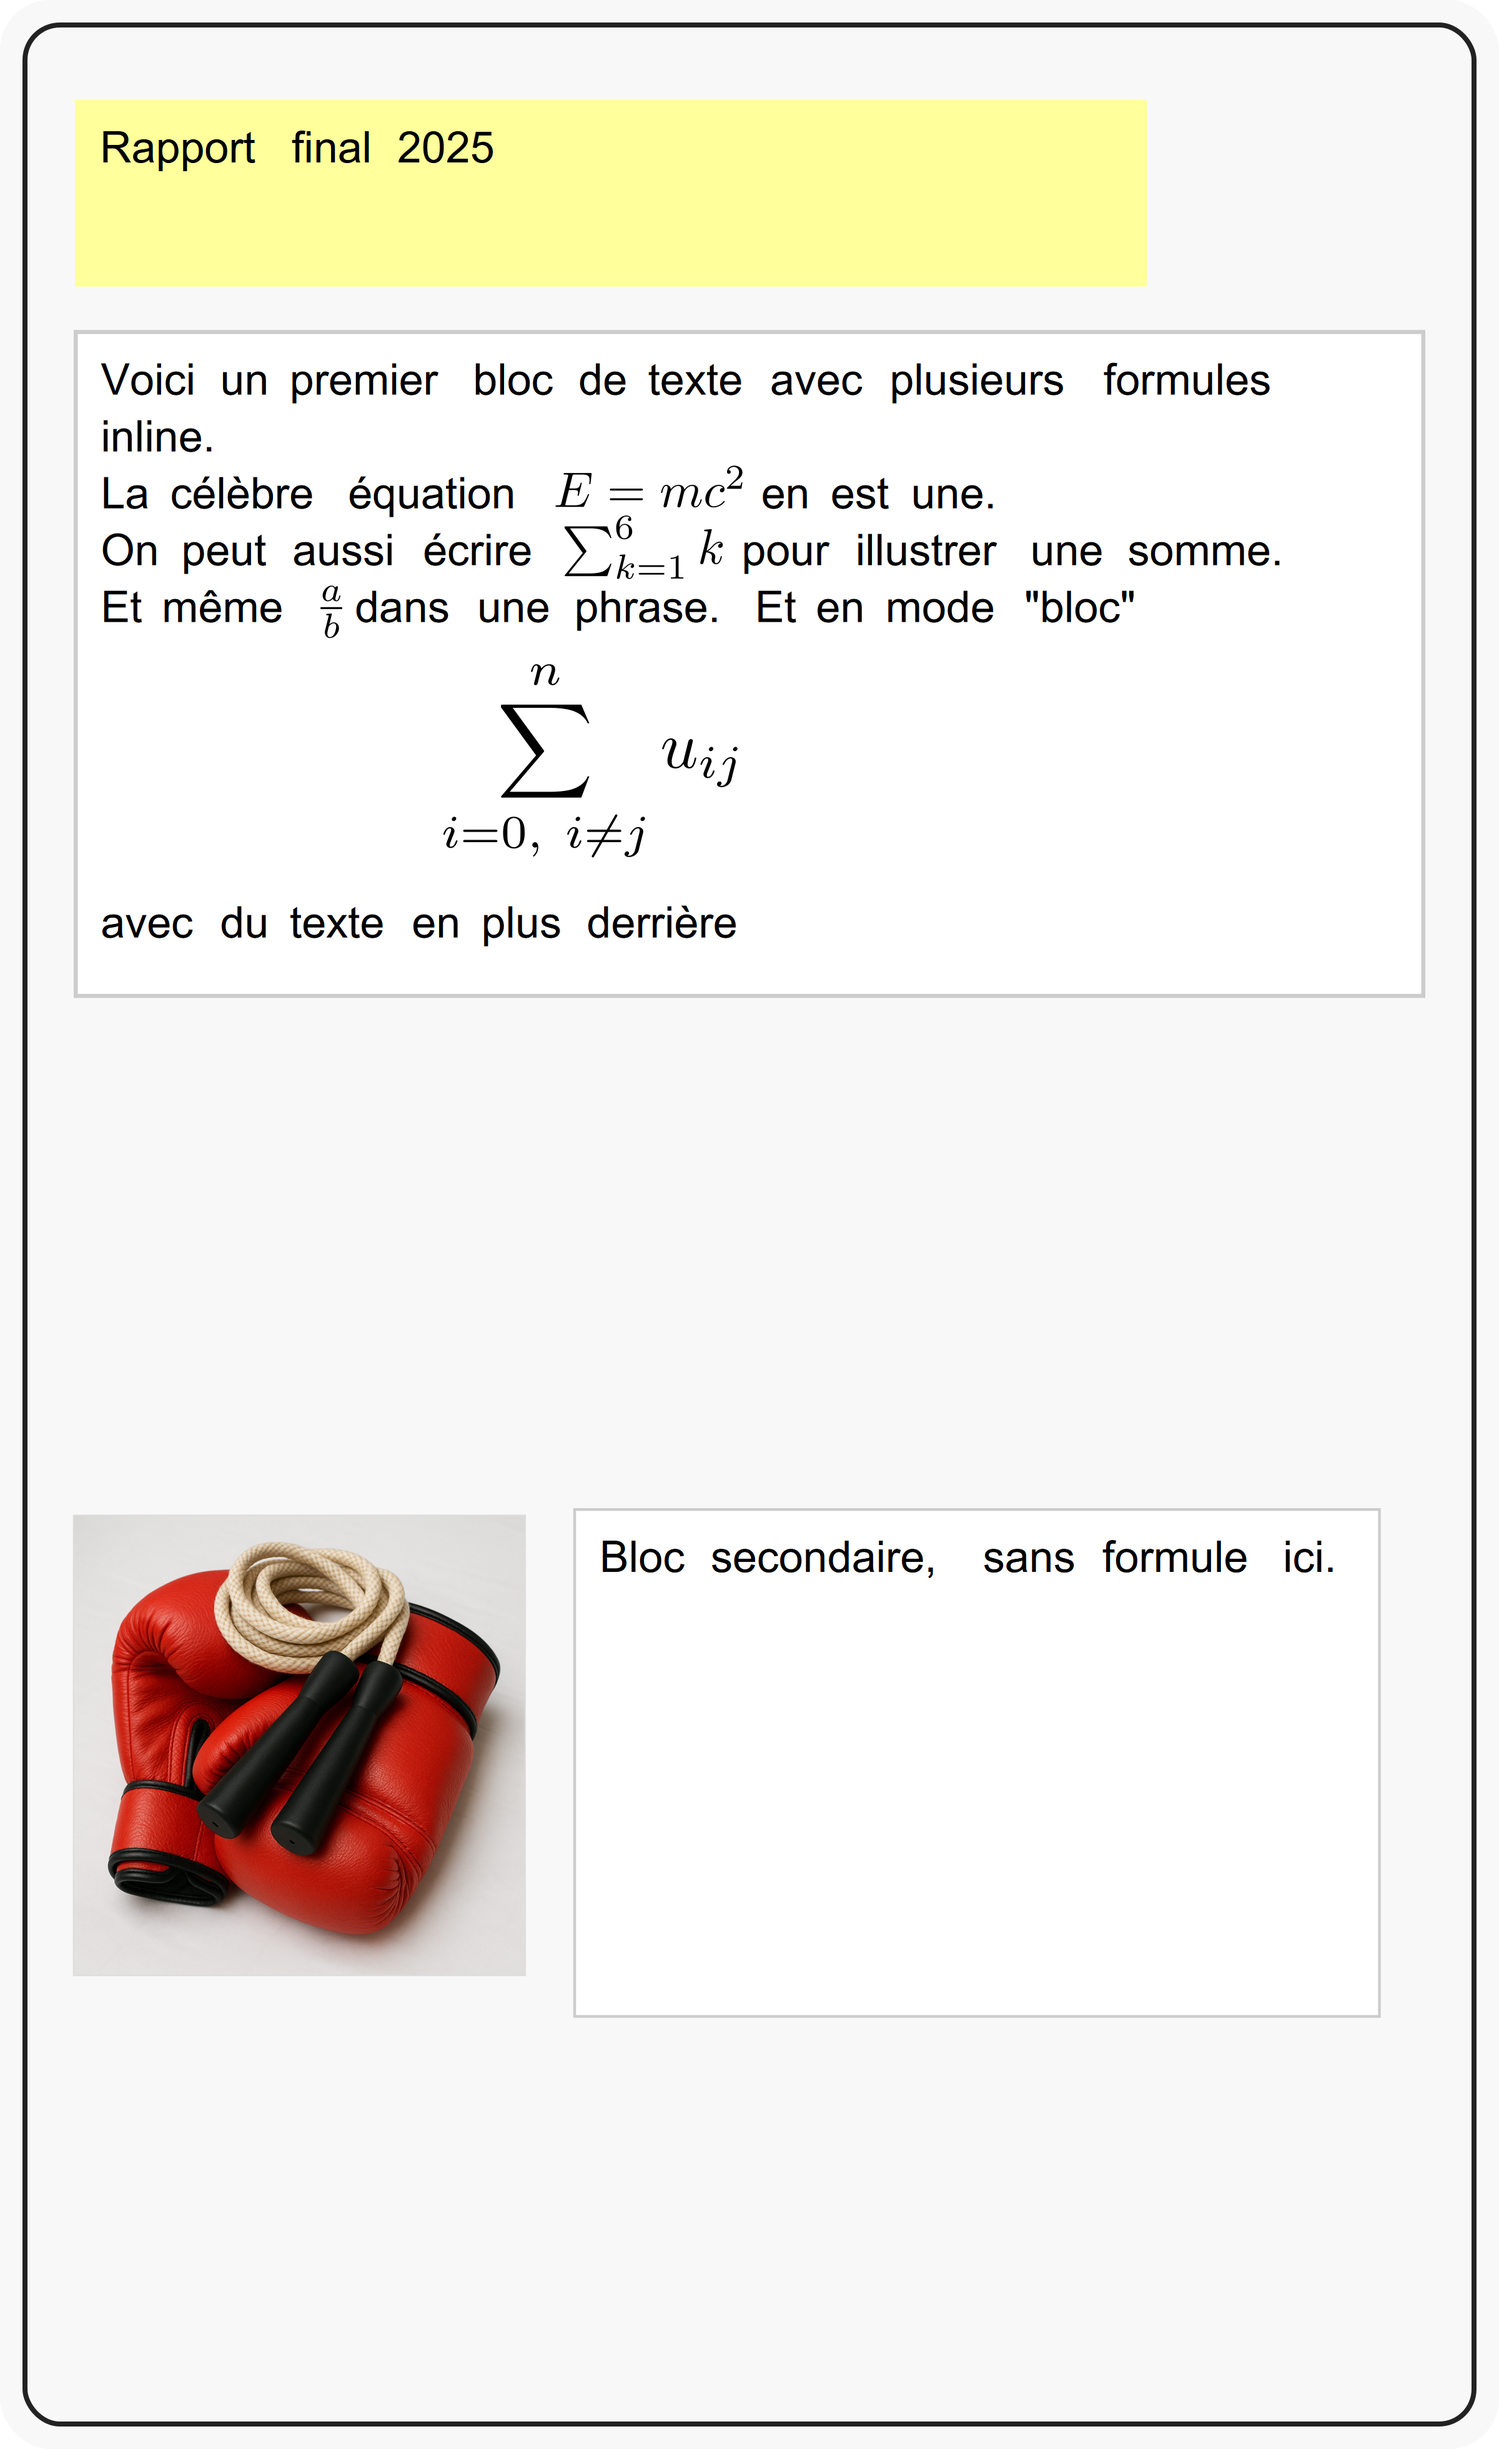
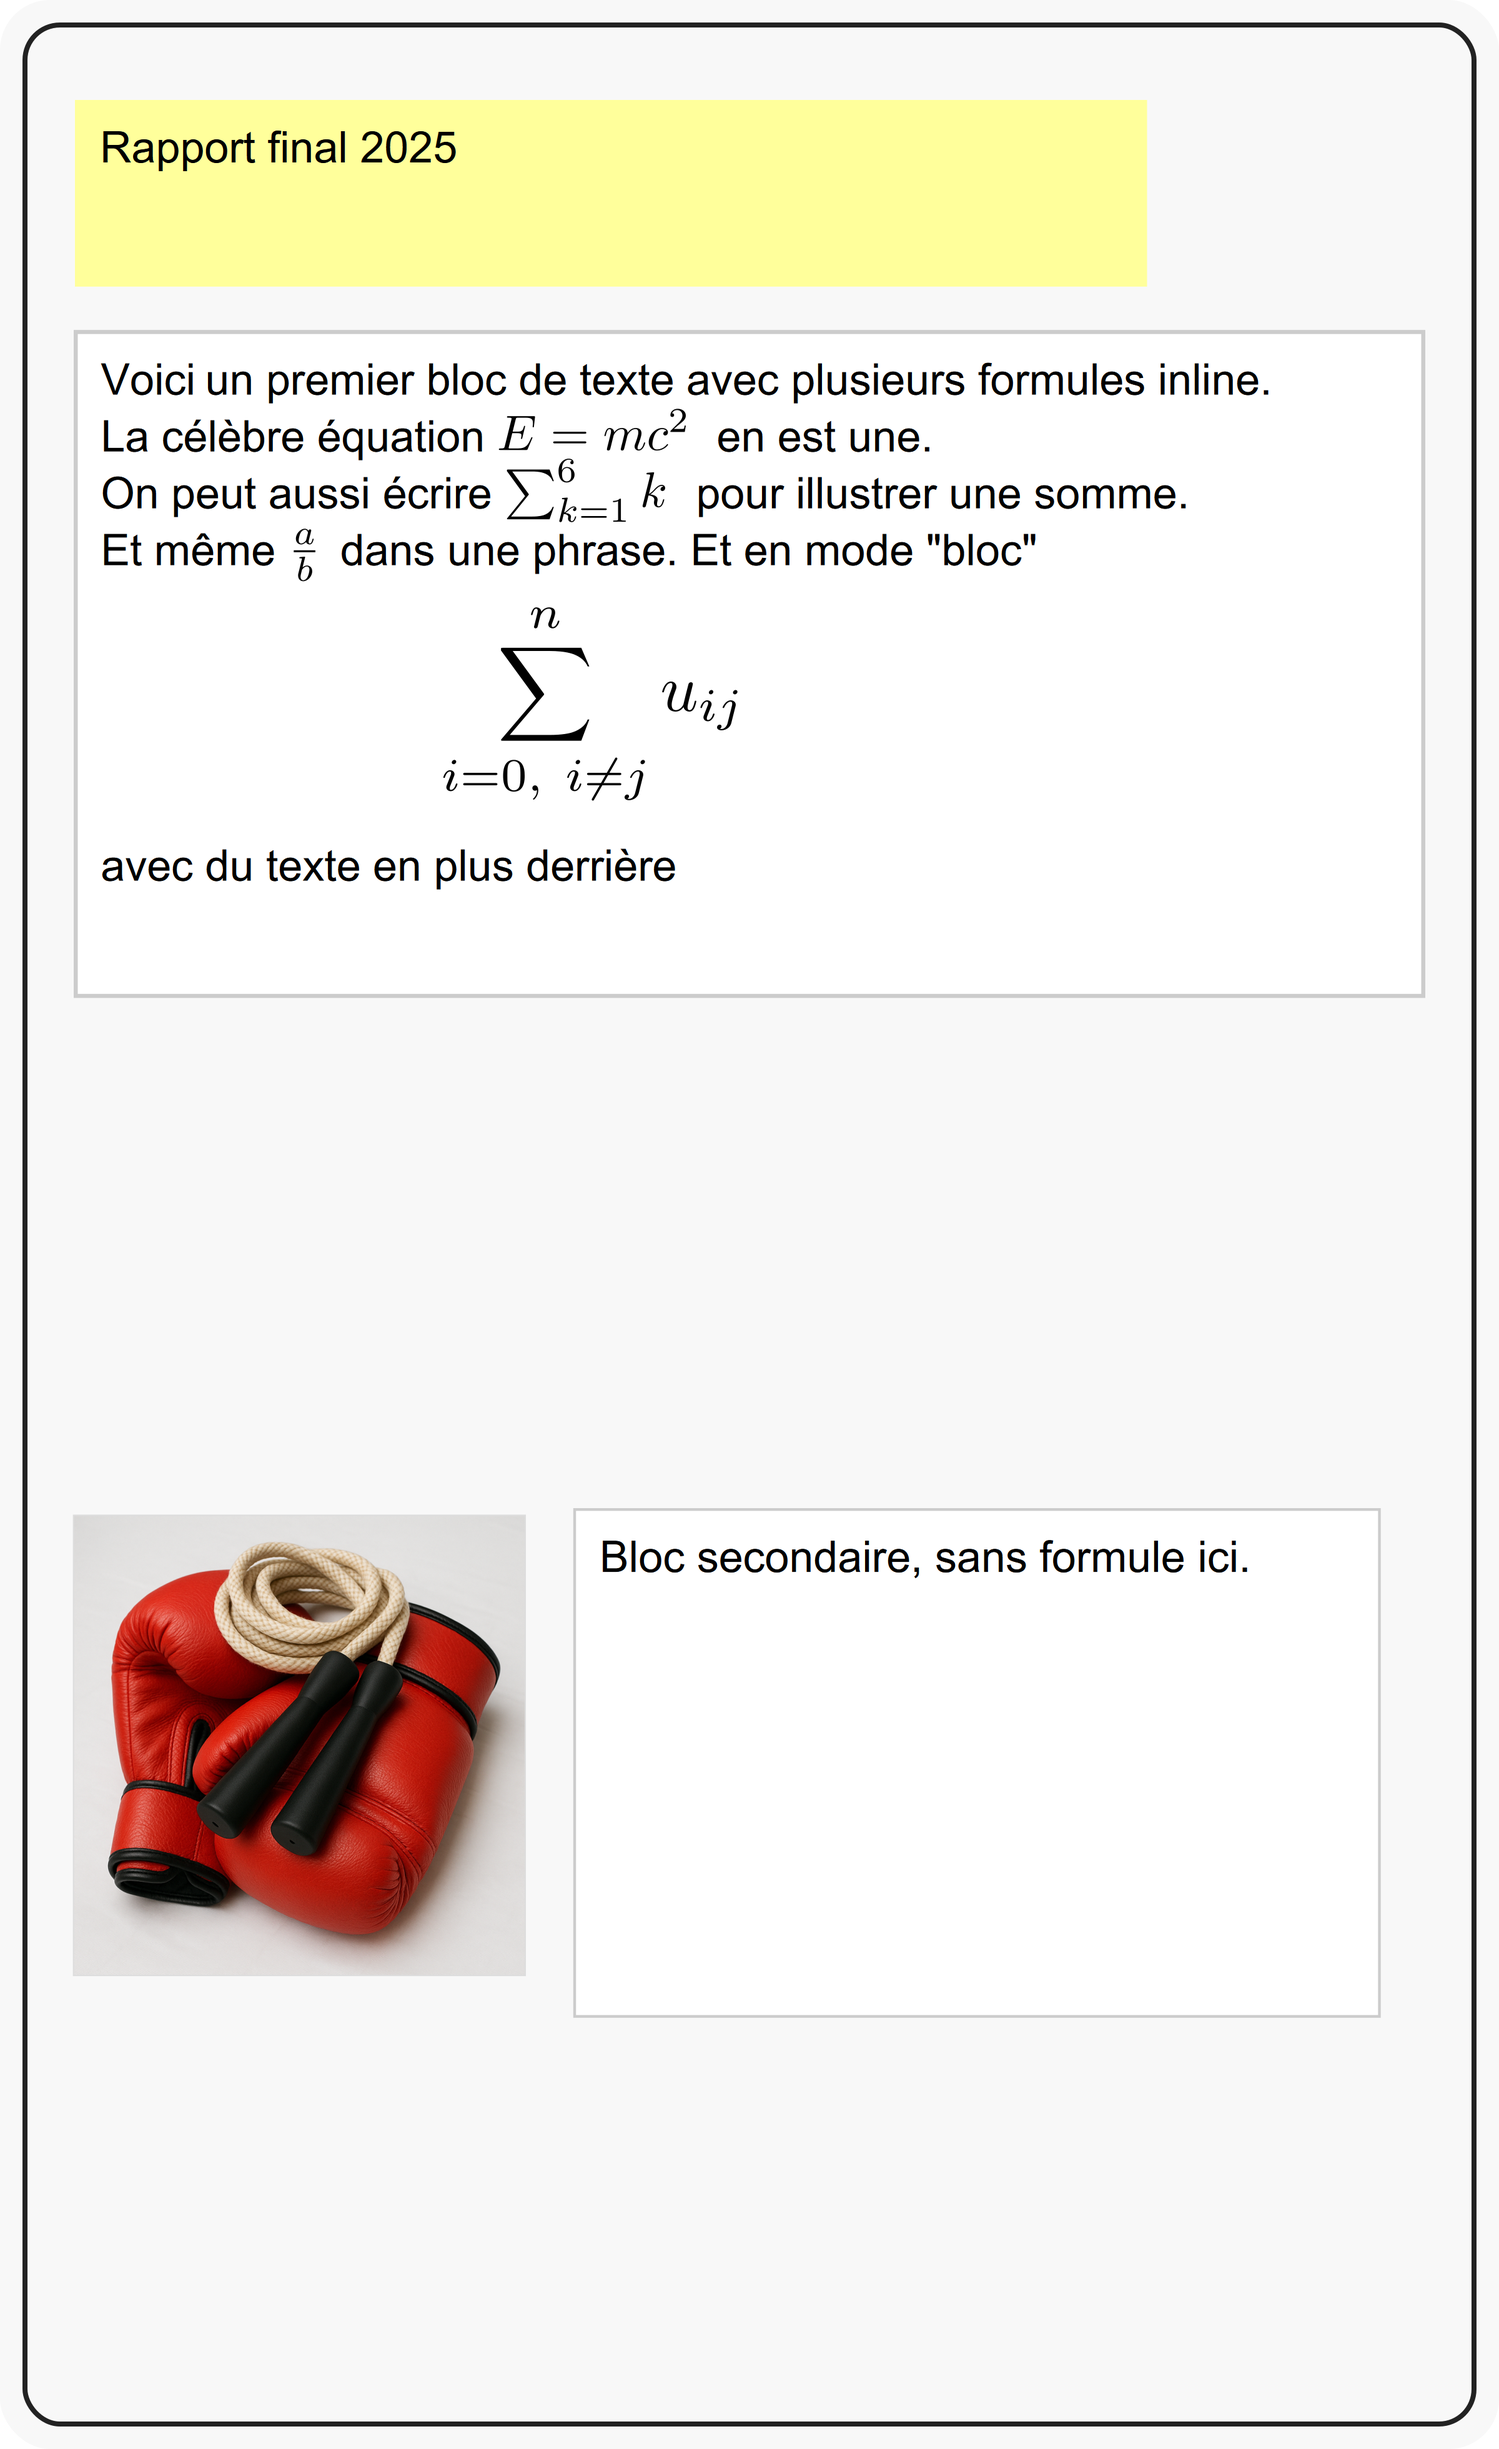
taille de police paramétrable + refacto

diff --git a/generate_svg.py b/generate_svg.py
@@ -13,10 +13,7 @@ CARDS_DIR = "cards"
 OUT_DIR = "out"
 TEMPLATE_PATH = "template.svg"
 
-FONT_PATH = r"C:\Windows\Fonts\arial.ttf"
-FONT_SIZE_L = 35
-FONT_SIZE_XL = 60
-LINE_HEIGHT = 1.3
+
 LATEX_SCALE = 4 # dimension du png
 LATEX_INLINE_MARGIN_RIGHT = 15 # marge autour du bloc latex
 BASELINE_RATIO = 0.03 # pour corriger la position verticale des formules
@@ -37,29 +34,25 @@ OUT_PATH = "out/output.svg"
 # === Regex pour découper texte + formules + espaces + sauts de ligne
 PATTERN = re.compile(r"""
     (?P<newline>\n)
-  | (?P<block>\$\$(?:(?!\$\$).)*\$\$)  # Bloc d'équation $$...$$
+  | (?P<block>\$\$(?:(?!\$\$).)*\$\$)
   | (?P<formula>
-        \
+        \\
 
 \[(?:(?!\\\]
 
 ).)*\\\]
 
-         # 
 
-\[...\]
-
-
-      | \\\((?:(?!\\\)).)*\\\)        # \(...\)
-      | (?<!\\)\$(?:(?!\$(?!\d)).)*?(?<!\\)\$  # Inline $...$
+      | \\\((?:(?!\\\)).)*\\\)
+      | (?<!\\)\$(?:(?!\$(?!\d)).)*?(?<!\\)\$
     )
-  | (?P<word>[^\s]+[ \t]*)            # Mot ou espace
+  | (?P<space>[ \t]+)
+  | (?P<word>[^\s]+)
 """, re.VERBOSE | re.DOTALL)
-
 
 def split_text_into_tokens(text):
     tokens = []
-    for match in PATTERN.finditer(text):
+    for match in PATTERN.finditer(text):  
         if match.group("newline"):
             tokens.append({"type": "NEW_LINE", "text": "\n"})
         elif match.group("block"):
@@ -68,18 +61,13 @@ def split_text_into_tokens(text):
             tokens.append({"type": "FORMULA", "text": match.group("formula")})
         elif match.group("word"):
             tokens.append({"type": "WORD", "text": match.group("word")})
+        elif match.group("space"):
+            tokens.append({"type": "SPACE", "text": " "})
     return tokens
 
 def get_text_width(text, font):
     return font.getlength(text)
-    
-# def set_slot_font_size(slot, font_size):
-#    existing_style = slot.get("style", "").strip()
-#    if existing_style and not existing_style.endswith(";"):
-#        existing_style += ";"
-#    new_style = f"{existing_style}font-size:{font_size}px;"
-#    slot.set("style", new_style)
-    
+   
     
 def set_slot_style(slot, style, value):
     existing_style = slot.get("style", "").strip()
@@ -115,27 +103,45 @@ def get_svg_dimensions(svg_fragment):
 
 
 def render_text_in_slot(root, slot_id, text, font_size):
+    DEFAULT_FONT = "arial"
+    FONT_PATH = r"C:\Windows\Fonts\arial.ttf"
+    FONT = ImageFont.truetype(FONT_PATH, size=font_size)
+    LINE_HEIGHT = 1.3
+    LINE_HEIGHT_px = font_size * LINE_HEIGHT
+  
     slot = root.xpath(f'//*[@id="{slot_id}"]')[0]
     slot_width = float(slot.get("width"))
 
-    font = ImageFont.truetype(FONT_PATH, size=40)
-    LINE_HEIGHT_px = font_size * LINE_HEIGHT
-    
     x_start = float(slot.get("x")) + 10 + TEXT_MARGIN_LEFT
     y_start = float(slot.get("y")) + 40 + TEXT_MARGIN_UP
     cursor_x = x_start
     cursor_y = y_start
 
     tokens = split_text_into_tokens(text)
-    for token in tokens:
-        if token["type"] in ("WORD", "SPACEx"):
-            width = get_text_width(token["text"], font)
+    for token in tokens:    
+        if token["type"] in ("WORD", "SPACE"):
+            width = get_text_width(token["text"], FONT)
             if cursor_x + width > x_start + slot_width - TEXT_MARGIN_RIGHT:
                 cursor_y += LINE_HEIGHT_px
                 cursor_x = x_start
             text_elem = etree.Element("text", x=str(cursor_x), y=str(cursor_y))
             text_elem.text = token["text"]
+            set_slot_style(slot=text_elem, style="font-family", value=DEFAULT_FONT)
             set_slot_style (slot=text_elem, style="font-size", value=f"{font_size}px")
+            
+            rect = etree.Element("rect", {
+                "x": str(cursor_x),
+                "y": str(cursor_y - font_size),
+                "width": str(width),
+                "height": str(font_size),
+                "fill": "none",
+                #"stroke": "green",
+                #"stroke-width": "1.5",
+                "font_family": "arial"
+            })
+            root.append(rect)
+
+
             root.append(text_elem)  
             cursor_x += width
 
@@ -178,7 +184,6 @@ def render_text_in_slot(root, slot_id, text, font_size):
             cursor_x = x_start
 
 def render_image_in_slot(root, frame_id="image_frame", slot_id="image_slot", image_path="", ):
-    print(f"⚠ render_image_in_slot / image_path : {image_path}")
     if not image_path or not os.path.exists(image_path):
         print("❌ Image introuvable :", image_path)
         return
@@ -211,7 +216,6 @@ def export_svg_to_png(svg_path, png_path, scale=1.0):
         print(f"❌ Erreur PNG : {e}")
 
 def process_card(file_path, card_name):
-    
     config_path = os.path.join(file_path, "config.yml")
     if not os.path.exists(config_path):
         print(f"❌ Pas de config.yml dans {file_path}")
@@ -219,12 +223,6 @@ def process_card(file_path, card_name):
 
     with open(config_path, "r", encoding="utf-8") as f:
         config = yaml.safe_load(f)
-
-        
-    print(f"file_path = {file_path}")
-    print(f"card_name : {card_name}")
-    print(f"config = {config.get("image_path", "image.png")}")
-    
     image_path_test = "image.png"
     for ext in [".png", ".jpg", ".jpeg"]:
         image_path_test = os.path.join(file_path, f"image{ext}")            
@@ -238,10 +236,10 @@ def process_card(file_path, card_name):
     tree = etree.parse(TEMPLATE_PATH)
     root = tree.getroot()
 
-    render_text_in_slot(root, "title_slot", config.get("title", ""), FONT_SIZE_L)
-    render_text_in_slot(root, "text1_slot", config.get("text1", ""), FONT_SIZE_L)
-    render_text_in_slot(root, "text2_slot", config.get("text2", ""), FONT_SIZE_L)
-    render_image_in_slot(root, frame_id="image_frame", slot_id="image_slot", image_path=image_path)
+    render_text_in_slot(root=root, slot_id="title_slot", text=config.get("title", ""), font_size=35)
+    render_text_in_slot(root=root, slot_id="text1_slot", text=config.get("text1", ""), font_size=35)
+    render_text_in_slot(root=root, slot_id="text2_slot", text=config.get("text2", ""), font_size=35)
+    render_image_in_slot(root=root, frame_id="image_frame", slot_id="image_slot", image_path=image_path)
 
     os.makedirs(OUT_DIR, exist_ok=True)
     svg_path = os.path.join(OUT_DIR, f"{card_name}.svg")
